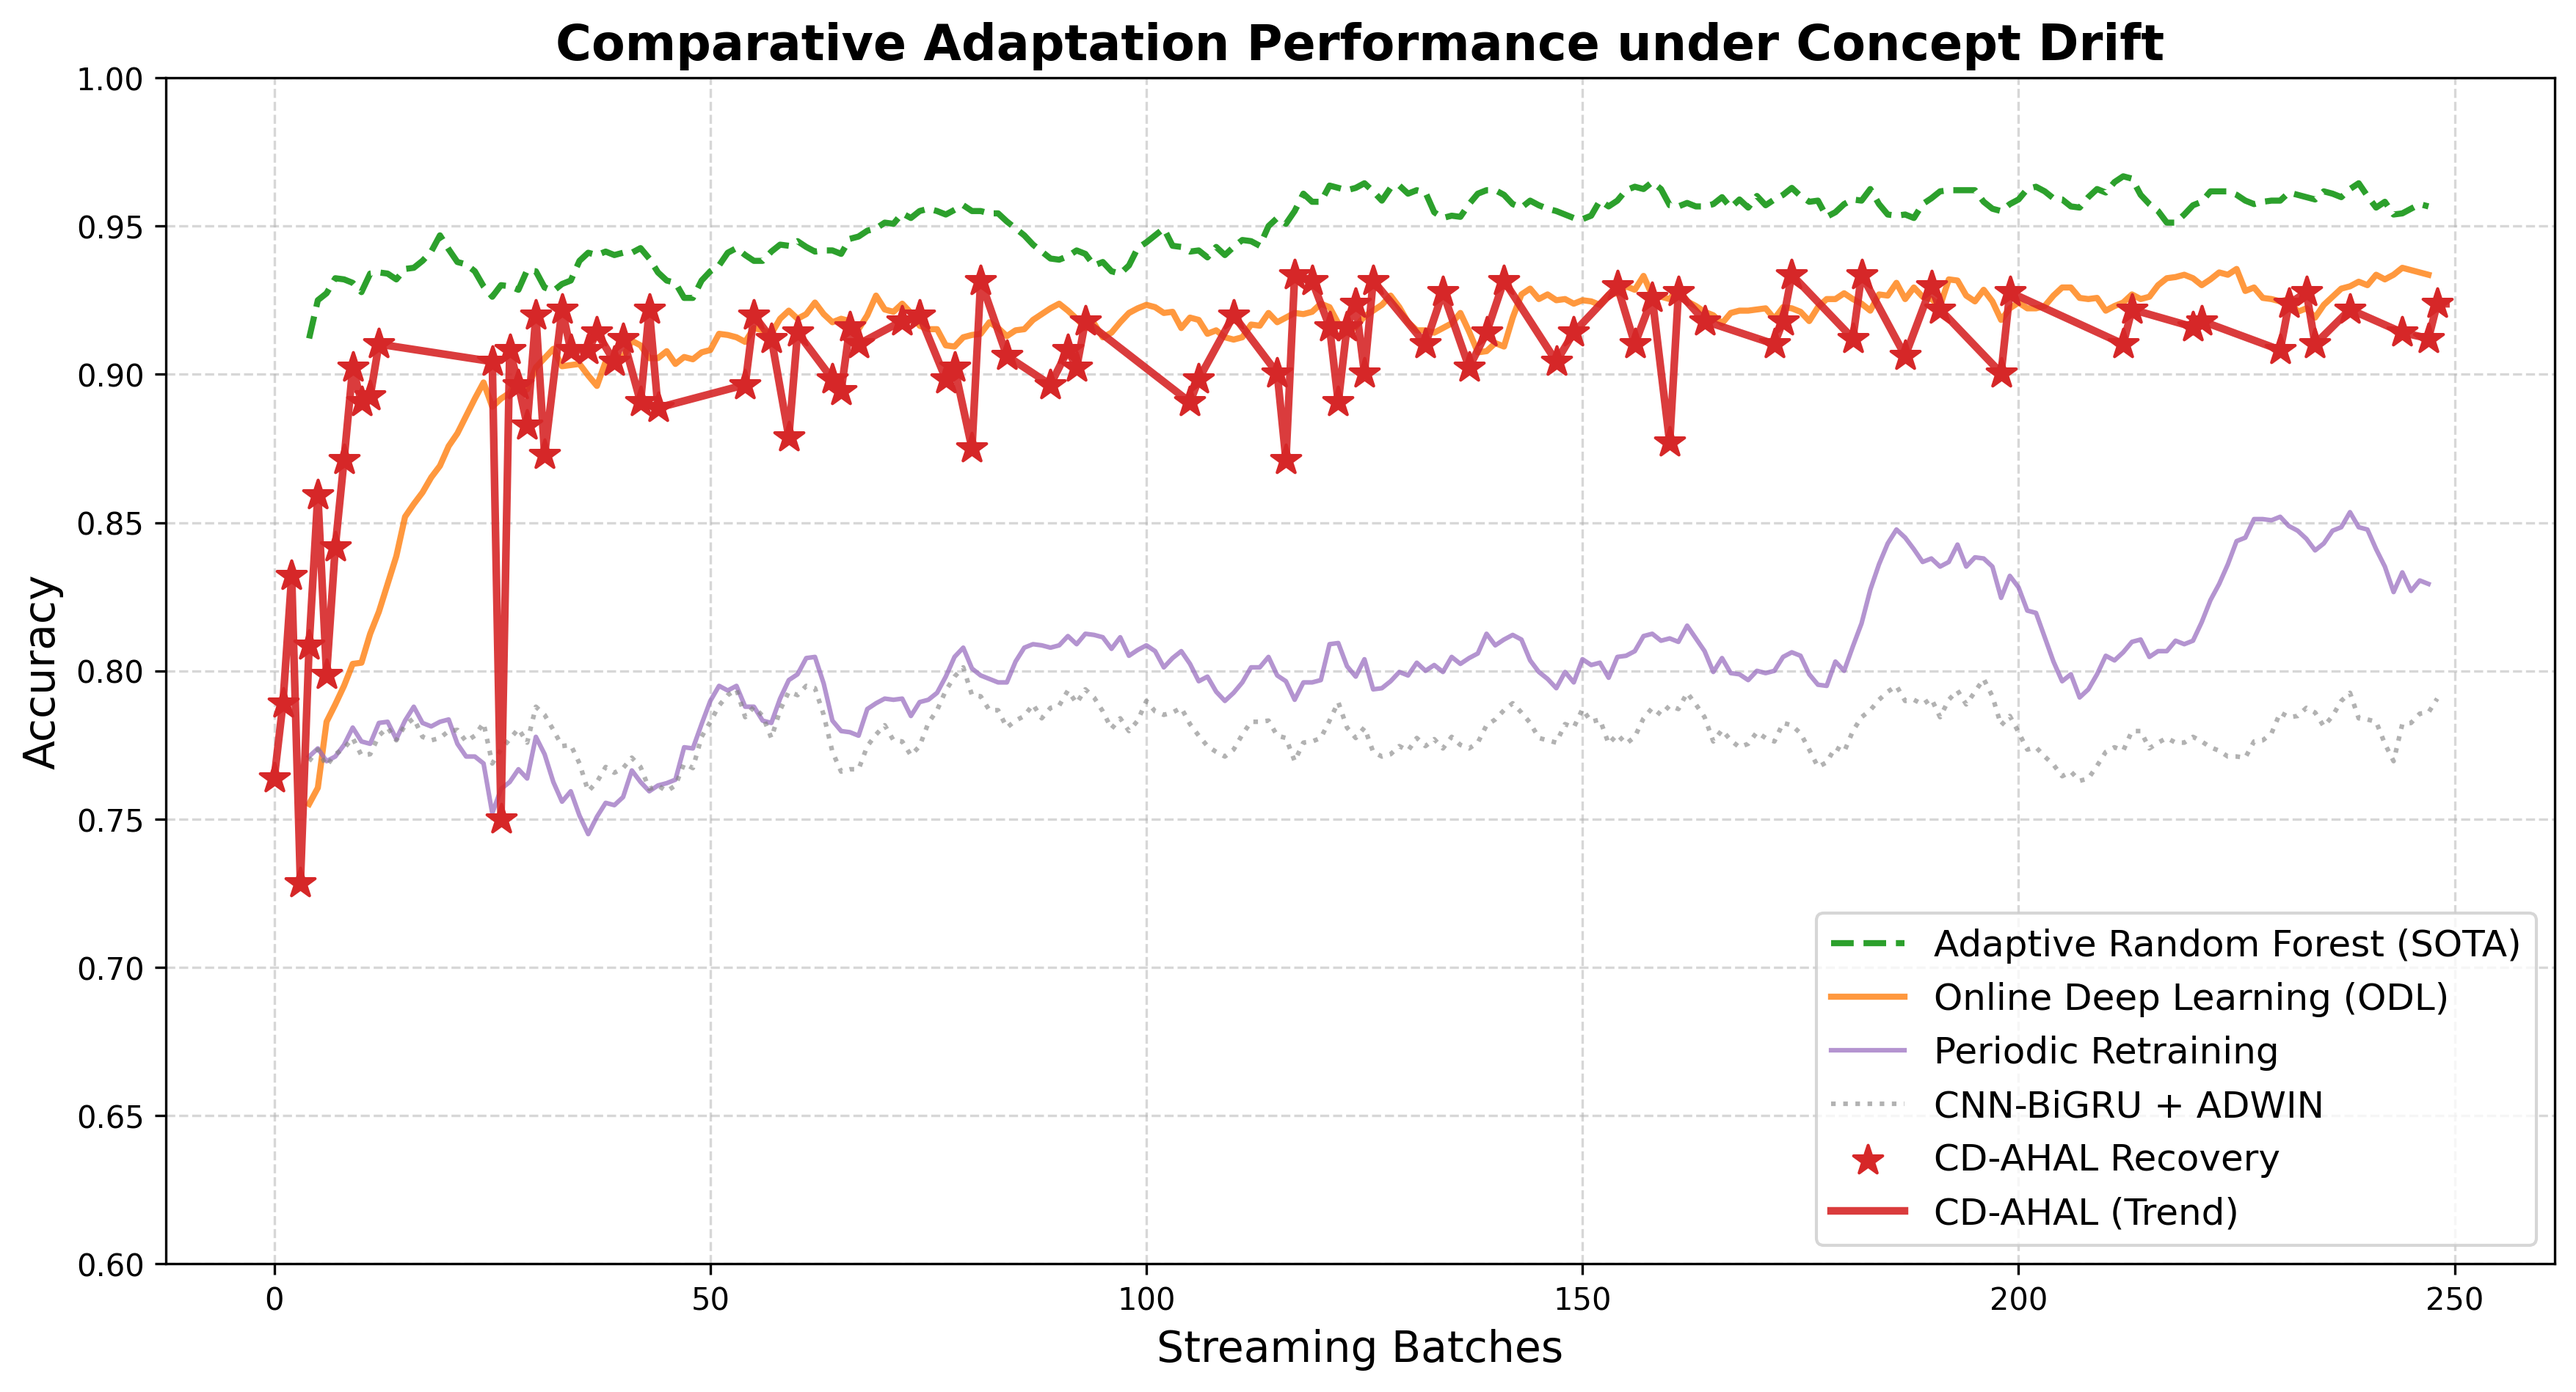
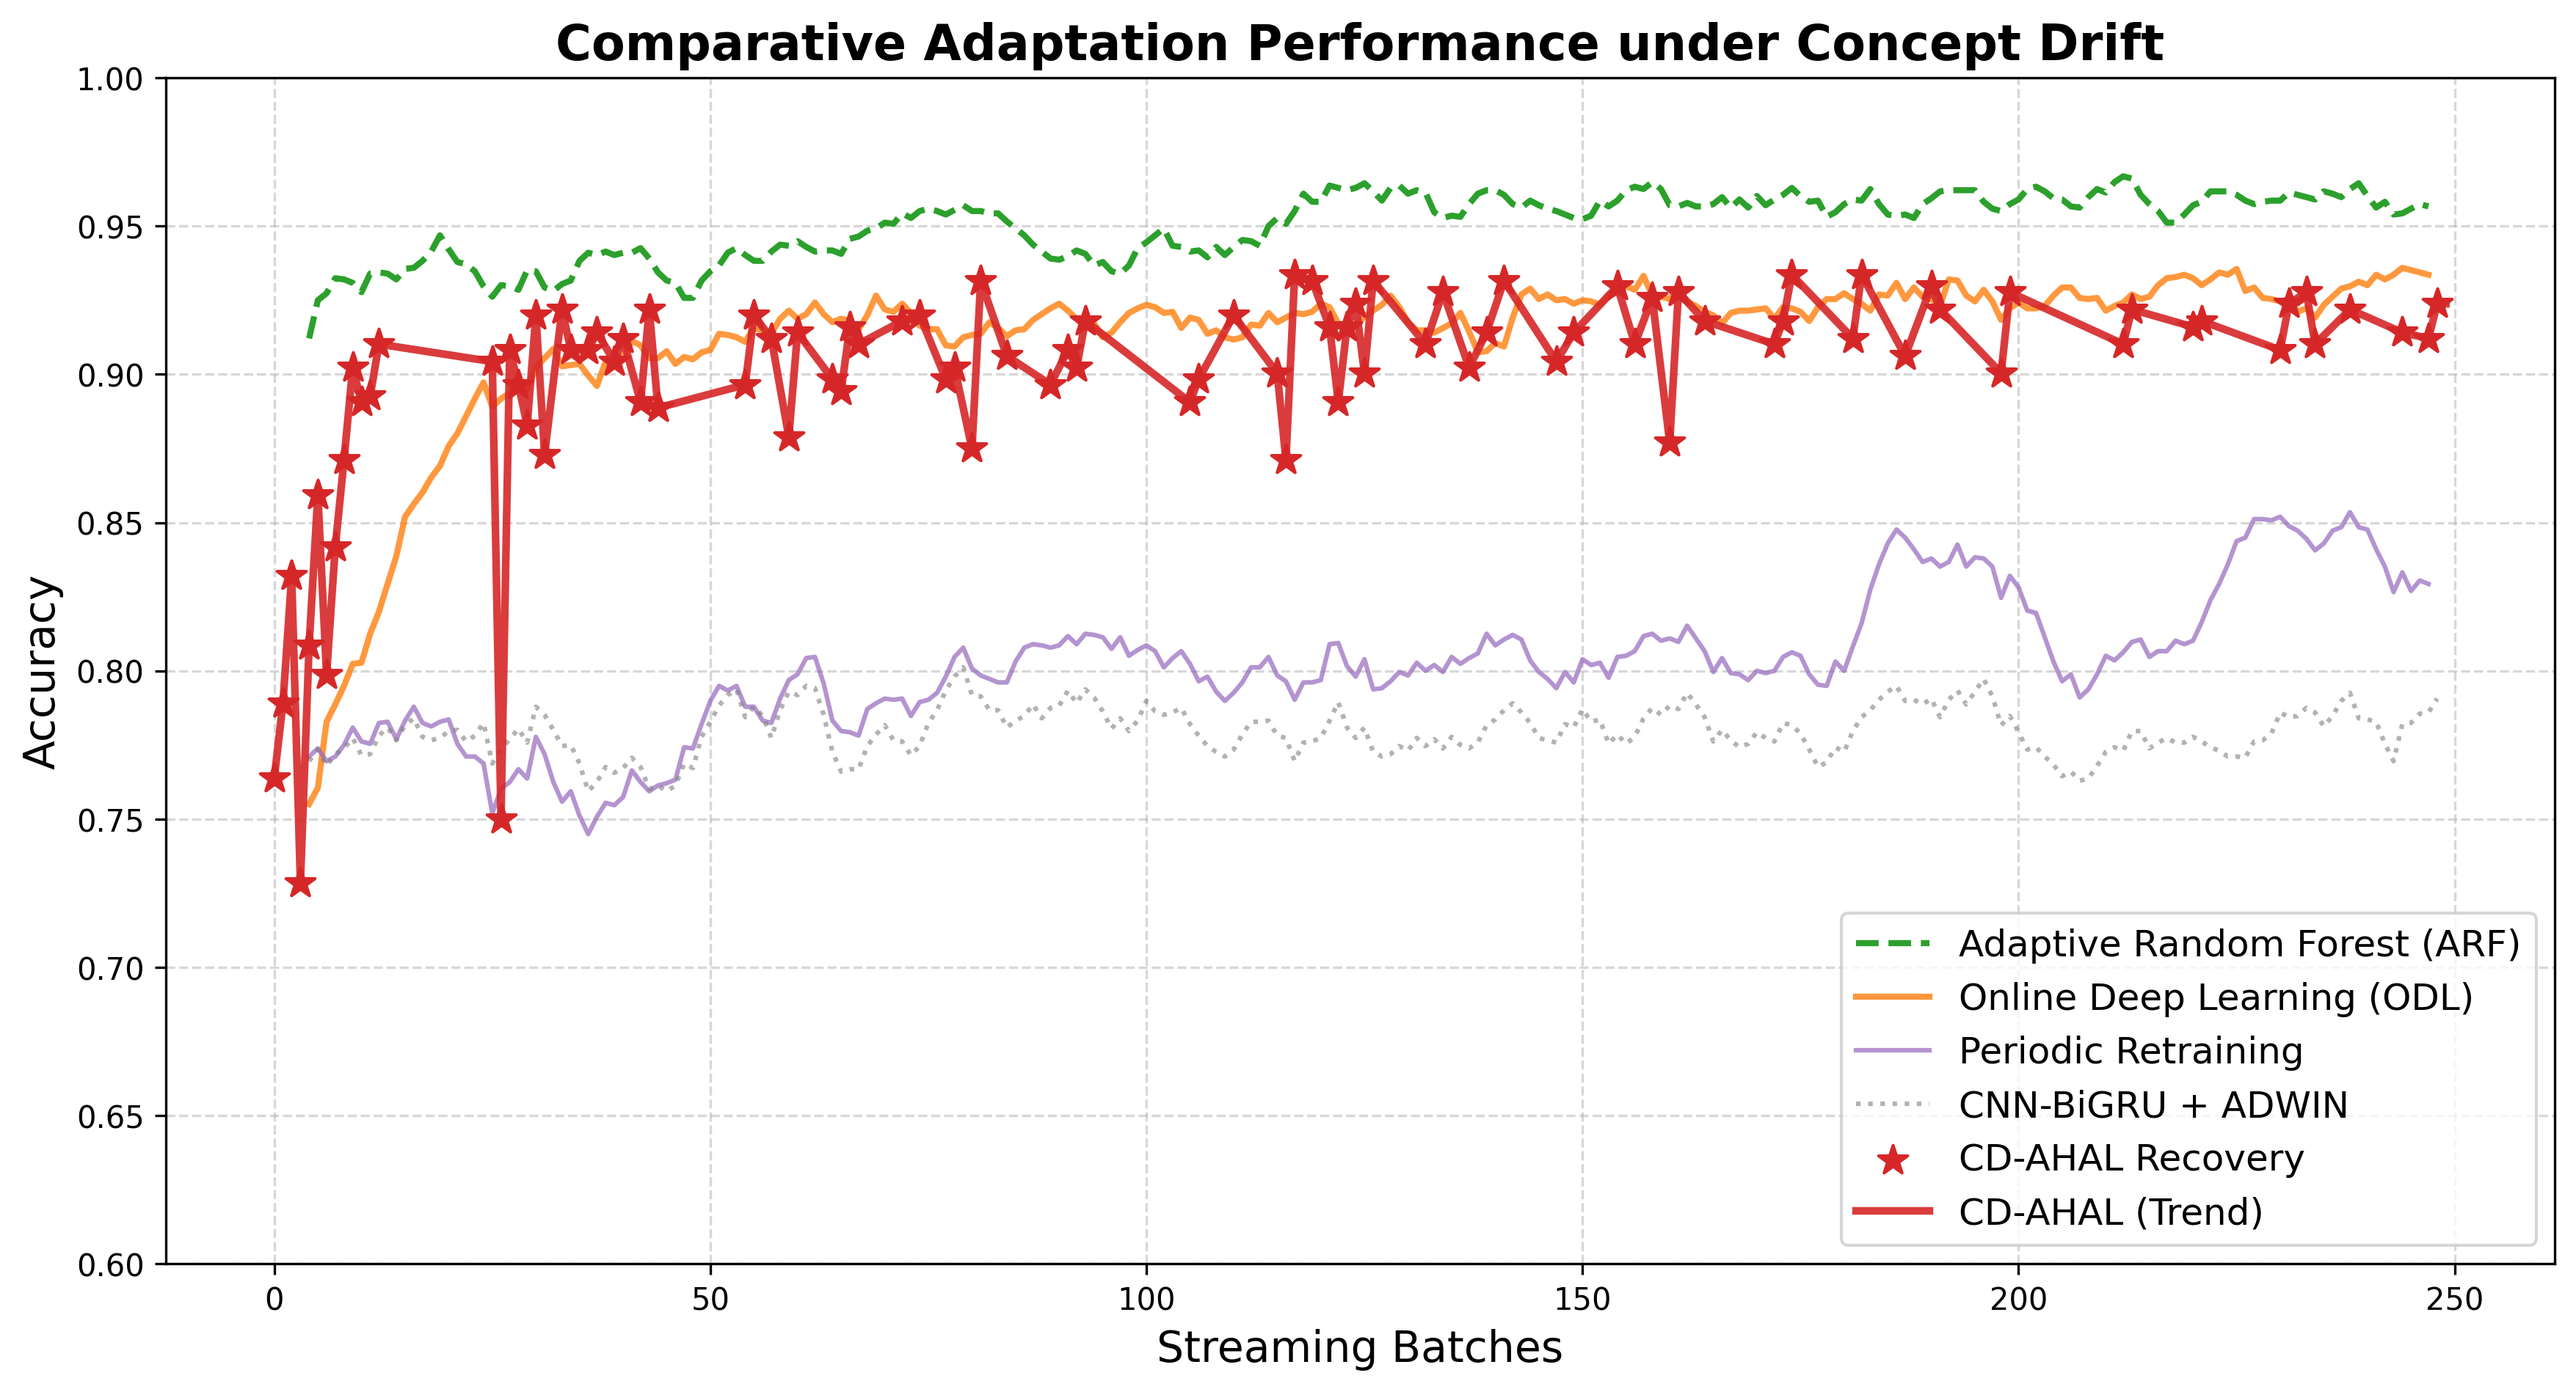
Update

Changed region(s): [[0.7142, 0.6528, 0.9627, 0.9015]]

diff --git a/src/model/plot_results.py b/src/model/plot_results.py
@@ -48,7 +48,7 @@ def main():
     
     # Plot Baselines
     plt.plot(df_arf['Batch'], df_arf['Accuracy'].rolling(window).mean(), 
-             label='Adaptive Random Forest (SOTA)', color='#2ca02c', linewidth=2, linestyle='--')
+             label='Adaptive Random Forest (ARF)', color='#2ca02c', linewidth=2, linestyle='--')
     plt.plot(df_odl['Batch'], df_odl['Accuracy'].rolling(window).mean(), 
              label='Online Deep Learning (ODL)', color='#ff7f0e', linewidth=2, alpha=0.8)
     plt.plot(df_periodic['Batch'], df_periodic['Accuracy'].rolling(window).mean(), 
